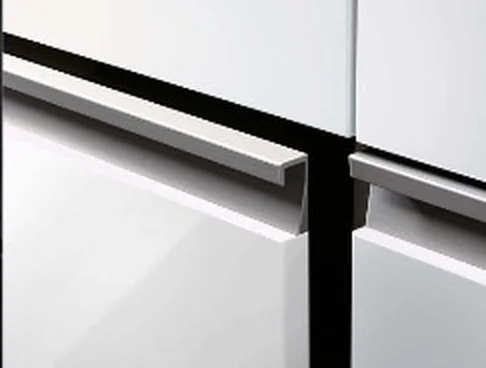
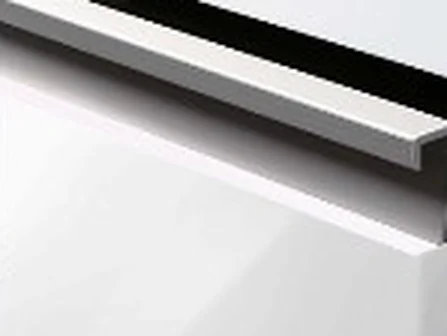
写真の切り出し直しと、扉カラーの注記を追加

diff --git a/products/kitchen/v-style/index.html b/products/kitchen/v-style/index.html
@@ -217,11 +217,10 @@
       </div>
       <figcaption>
         <strong>扉の色と取っ手の組み合わせで、キッチンの雰囲気はぐっと変わります。</strong>
-        木のあたたかさ、石のような落ち着き、白のすっきり感。お好みの組み合わせを、店頭の実物でお確かめください。
       </figcaption>
     </figure>
 
-    <p class="p-prd__sub">扉カラー（全4色）</p>
+    <p class="p-prd__sub">扉カラー（全4色）<small class="p-prd__note">※下記カラー以外選択の場合はオプションとなります</small></p>
     <div class="p-prd__colors">
       <figure><div class="p-prd__swatch"><img src="../../../assets/img/products/v-style/color-white.jpg" width="213" height="146" alt="扉カラー ホワイト" loading="lazy"></div><figcaption>ホワイト</figcaption></figure>
       <figure><div class="p-prd__swatch"><img src="../../../assets/img/products/v-style/color-beige.jpg" width="213" height="146" alt="扉カラー ポタリーベージュ" loading="lazy"></div><figcaption>ポタリーベージュ</figcaption></figure>

diff --git a/assets/css/product.css b/assets/css/product.css
@@ -170,6 +170,15 @@
 }
 
 .p-prd__sub{ font-size:16px; font-weight:900; margin-bottom:14px; }
+/* 見出しの横に添える注記。狭い画面では見出しの下に回りますが、
+   注記そのものは1行に収まる大きさにしています。 */
+.p-prd__note{
+  display:inline-block; margin-left:12px; white-space:nowrap;
+  font-size:clamp(10.8px,3.05vw,12.5px); font-weight:700; color:var(--ink-sub);
+}
+@media (max-width:599px){
+  .p-prd__note{ display:block; margin-left:0; margin-top:4px; }
+}
 .p-prd__colors{ display:grid; grid-template-columns:repeat(2,1fr); gap:14px; }
 .p-prd__colors figure figcaption{ margin-top:8px; text-align:center; font-size:13.5px; font-weight:800; }
 .p-prd__swatch{
